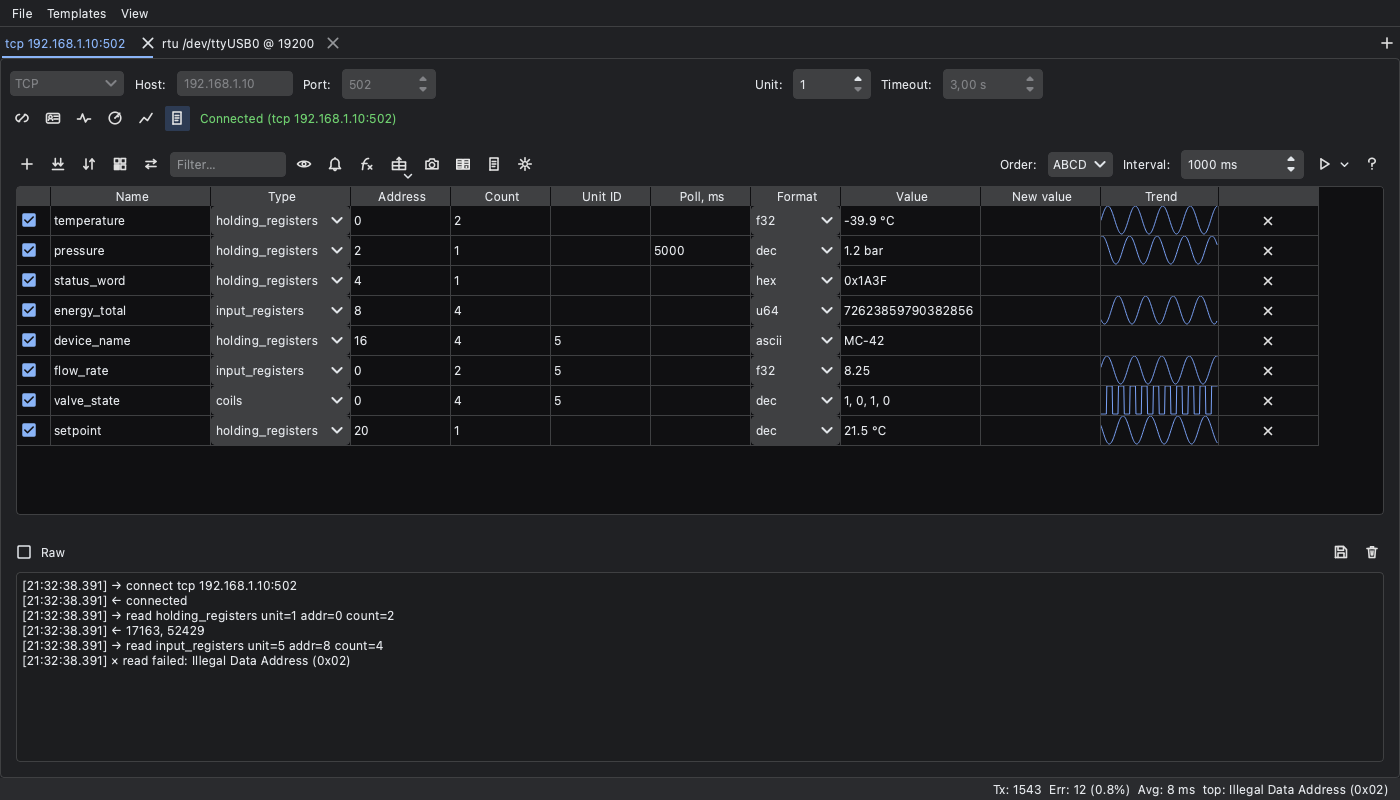
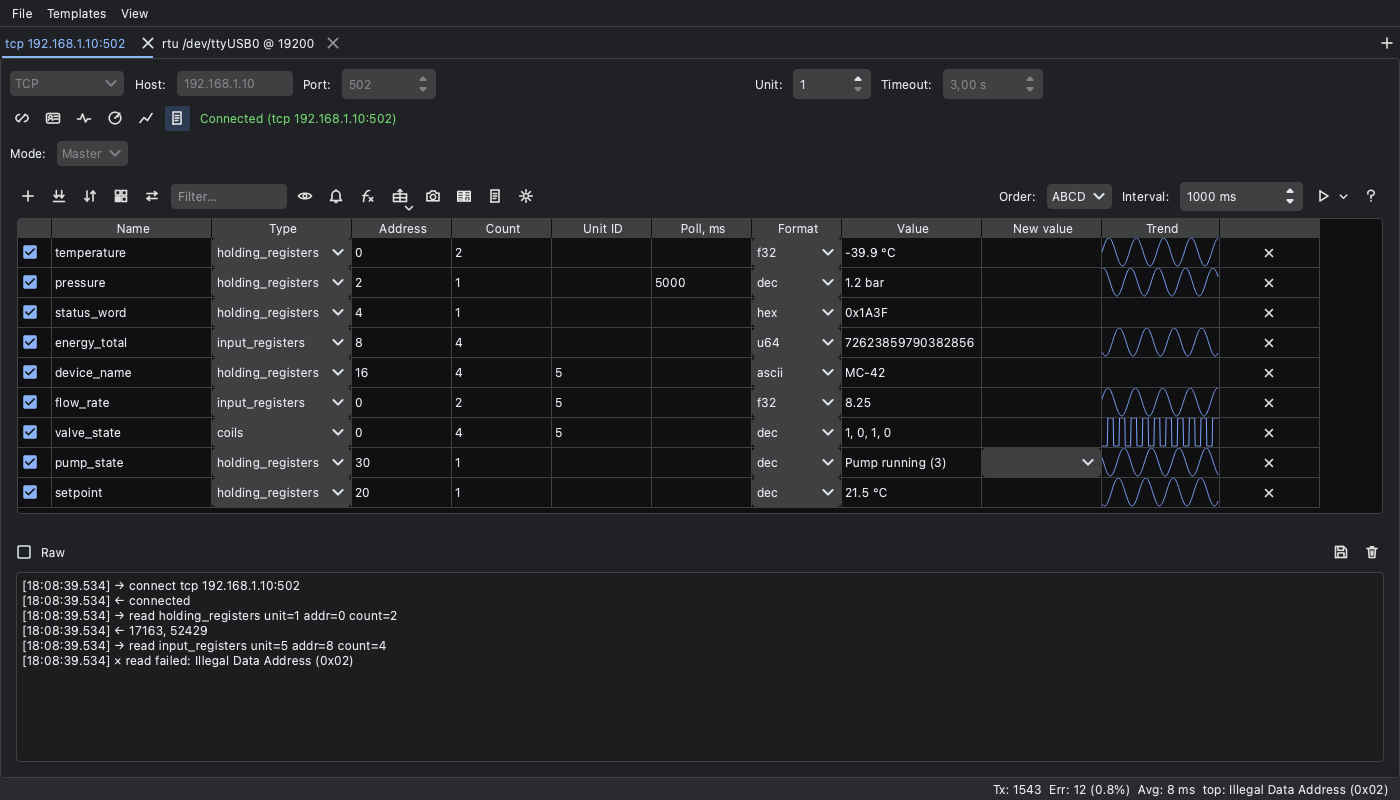
Document value names and refresh main window screenshots
Both READMEs describe the enum-like value names (master and slave); the
main window screenshots now show a pump_state row with named values and
its write dropdown (plus the Mode selector row).

diff --git a/README.md b/README.md
@@ -68,6 +68,10 @@ all Modbus logic runs in a separate thread (QThread), so the GUI never freezes.
   !=, in/outside range — first match wins) highlight the value cell in red
   or yellow, write an event to the log and optionally play a siren sound
   when a rule starts matching (including escalation to a stricter rule).
+- Value names (enum labels): a row can map numbers to names ("0=Stopped",
+  "1=Running", also 0/1 for coils) — the value then displays as
+  "Running (1)" and the write field becomes a dropdown that writes the chosen
+  value in one click (works in both master and slave modes).
 - Snapshot diff ("Snapshot"/"Diff…" buttons): remember the current raw values
   of all rows, then compare them with later reads in a separate window —
   changed rows are highlighted, an "Only differences" filter hides the rest,
